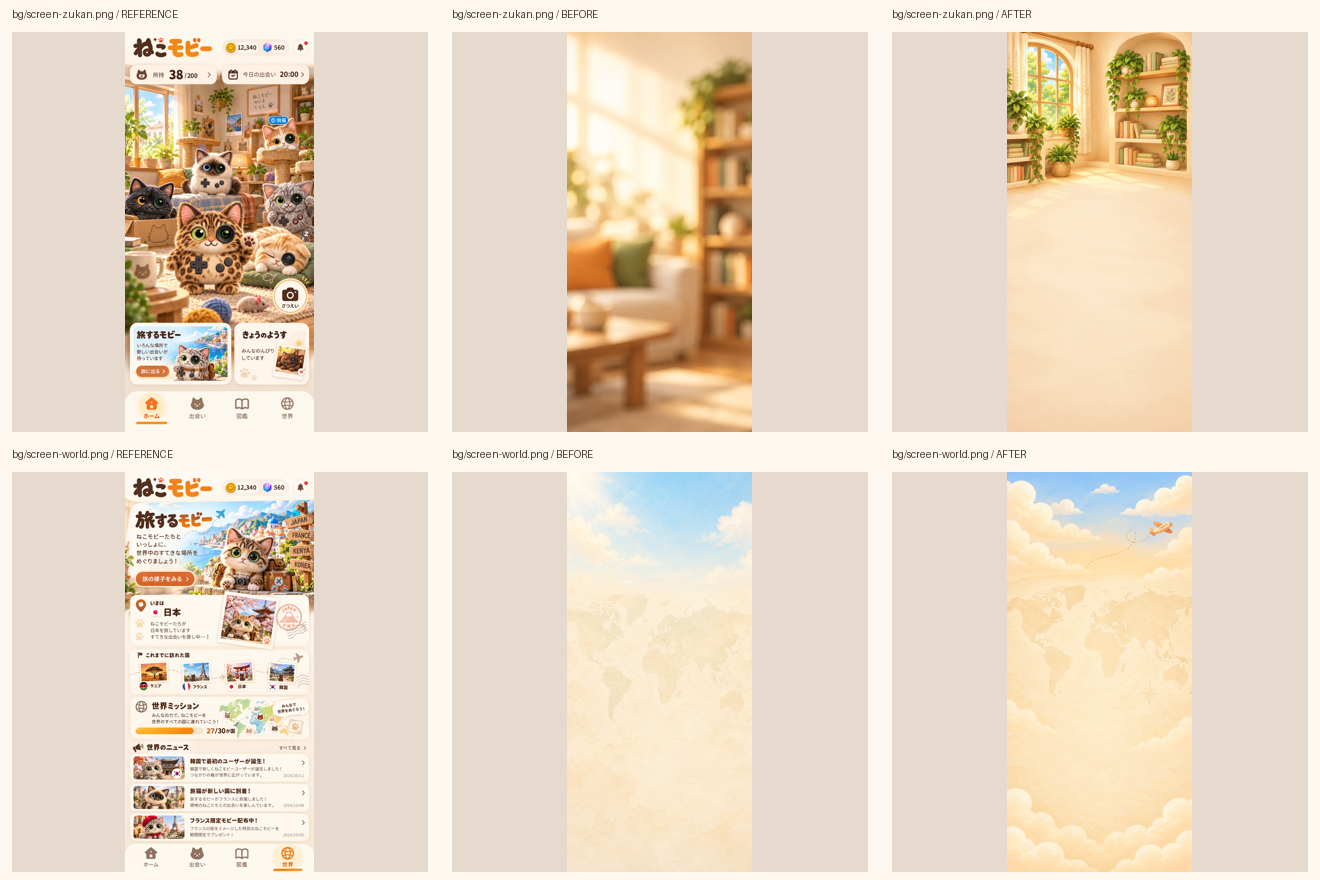
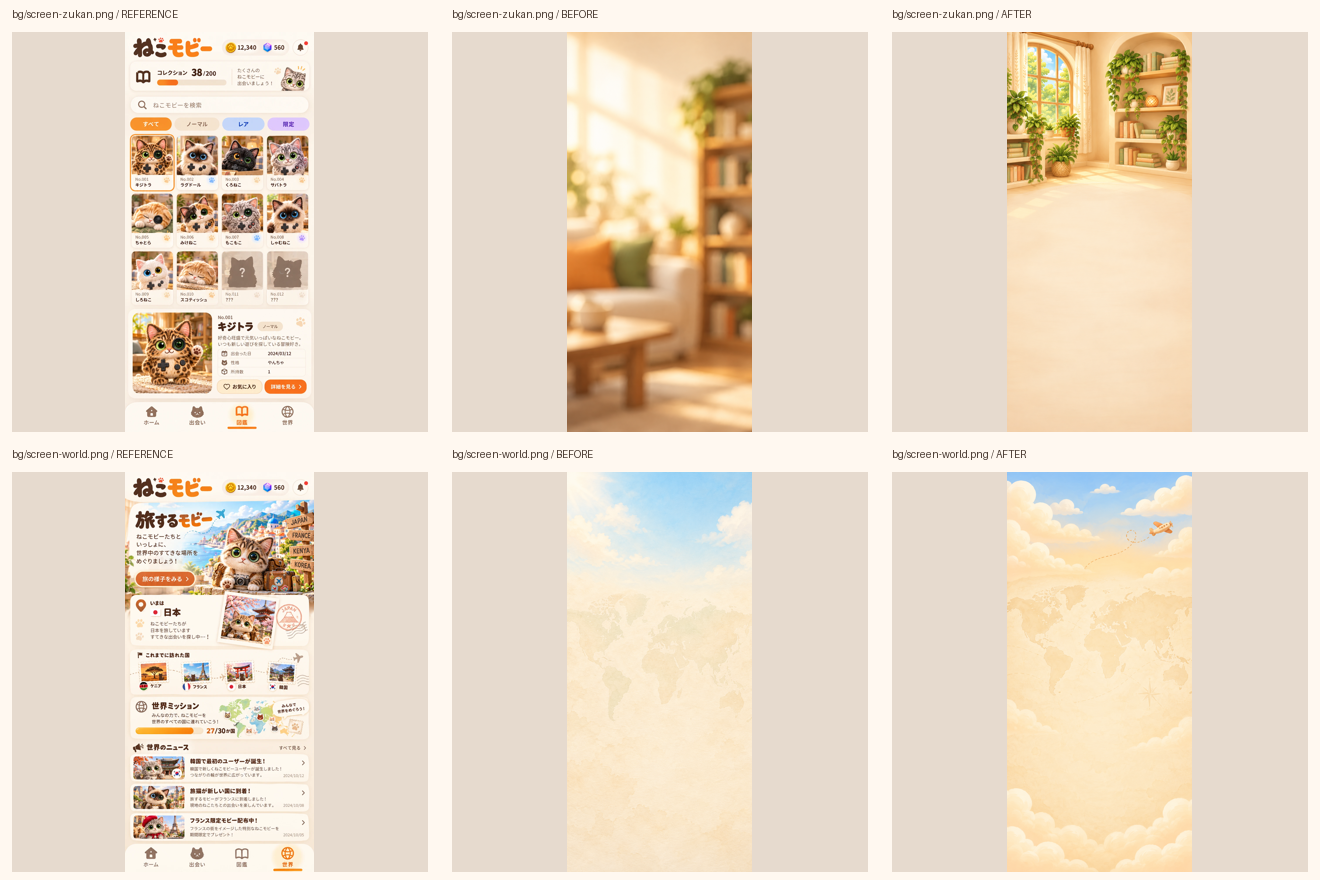
Record verified UI backgrounds and remaining quota-blocked assets

Changed region(s): [[0.0932, 0.0614, 0.2485, 0.4909]]

diff --git a/assets/ui-records/README.md b/assets/ui-records/README.md
@@ -66,3 +66,11 @@ Approved room-home draft02 retained. Redrawn room-deai (1179x1400) and world-her
 
 ## UI fixes: priority 2 complete
 Redrawn screen-zukan and screen-world, each1179x2556 opaque PNG, one generation each. Painted shelves and sky/map/airplane, pale central and lower overlay areas. Comparison: previews/regen-screens.png.
+
+## UI fixes: generation limit checkpoint (2026-10-25)
+Completed and pushed: 5 backgrounds including approved room-home. Generation counts: room-home2; room-deai1; world-hero1; screen-zukan1; screen-world1 (6 successful generations overall).
+Pending: photo-japan; stamp-photo-kenya/france/japan/korea; news-thumb-1/2/3; tabbar/bg; illust/empty-notice; illust/empty-history; panel/sheet-detail (12 assets). Existing pending files unchanged. New pending files not created.
+Built-in image_gen returned HTTP429 usage_limit_reached; generation stopped. Reset reported: 2026-10-25 21:30:37 JST. Resume ONLY pending assets after recovery; preserve approved style.
+Validation: provenance/ui-fixes-validation.json. All5 completed files pass exact dimensions, PNG, opacity, SHA256, bytes and EXIF checks. Application code and cat character source assets unchanged. Images visually inspected; no app/device rendering verification.
+Existing stamp/news files are RGB opaque with cream exterior; keep original cutout/scallop silhouettes when resuming. Empty-state illustrations are explicit cat exceptions to background no-cat rule.
+Lint attempted: unavailable (no lint script). Typecheck attempted with npx --no-install tsc --noEmit; local dependencies absent, npm registry resolution failed (ENOTFOUND registry.npmjs.org); no pass claimed.
